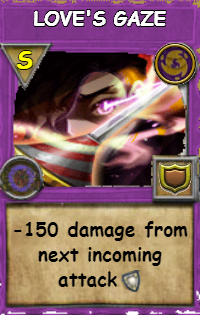
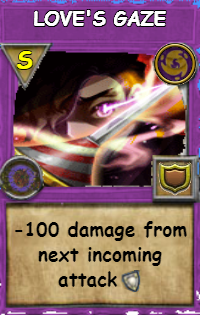
Phase 4: Task 2

diff --git a/src/main/ui/GameGUI.java b/src/main/ui/GameGUI.java
@@ -1,10 +1,9 @@
 package ui;
 
 
-import model.Card;
-import model.CardDeck;
+import model.*;
 import model.Character;
-import model.Effect;
+import model.Event;
 import persistence.JsonReader;
 import persistence.JsonWriter;
 
@@ -196,25 +195,25 @@ public class GameGUI implements ActionListener {
     //          on their name.
     public void setUpBoss() {
         if (boss.getName().equals("HADES, GOD OF THE UNDERWORLD")) {
-            boss.addCard(BossCards.HADES_ATTACK);
-            boss.addCard(BossCards.HADES_SHIELD);
-            boss.addCard(BossCards.HADES_PIERCE);
+            boss.getCardDeck().addCard(BossCards.HADES_ATTACK);
+            boss.getCardDeck().addCard(BossCards.HADES_SHIELD);
+            boss.getCardDeck().addCard(BossCards.HADES_PIERCE);
         } else if (boss.getName().equals("APHRODITE, GODDESS OF LOVE")) {
-            boss.addCard(BossCards.APHRODITE_ATTACK);
-            boss.addCard(BossCards.APHRODITE_SHIELD);
-            boss.addCard(BossCards.APHRODITE_PIERCE);
+            boss.getCardDeck().addCard(BossCards.APHRODITE_ATTACK);
+            boss.getCardDeck().addCard(BossCards.APHRODITE_SHIELD);
+            boss.getCardDeck().addCard(BossCards.APHRODITE_PIERCE);
         } else if (boss.getName().equals("POSEIDON, GOD OF THE SEA")) {
-            boss.addCard(BossCards.POSEIDON_ATTACK);
-            boss.addCard(BossCards.POSEIDON_SHIELD);
-            boss.addCard(BossCards.POSEIDON_PIERCE);
+            boss.getCardDeck().addCard(BossCards.POSEIDON_ATTACK);
+            boss.getCardDeck().addCard(BossCards.POSEIDON_SHIELD);
+            boss.getCardDeck().addCard(BossCards.POSEIDON_PIERCE);
         } else if (boss.getName().equals("ATHENA, GODDESS OF WAR")) {
-            boss.addCard(BossCards.ATHENA_ATTACK);
-            boss.addCard(BossCards.ATHENA_SHIELD);
-            boss.addCard(BossCards.ATHENA_PIERCE);
+            boss.getCardDeck().addCard(BossCards.ATHENA_ATTACK);
+            boss.getCardDeck().addCard(BossCards.ATHENA_SHIELD);
+            boss.getCardDeck().addCard(BossCards.ATHENA_PIERCE);
         } else {
-            boss.addCard(BossCards.ZEUS_ATTACK);
-            boss.addCard(BossCards.ZEUS_SHIELD);
-            boss.addCard(BossCards.ZEUS_PIERCE);
+            boss.getCardDeck().addCard(BossCards.ZEUS_ATTACK);
+            boss.getCardDeck().addCard(BossCards.ZEUS_SHIELD);
+            boss.getCardDeck().addCard(BossCards.ZEUS_PIERCE);
         }
     }
 
@@ -640,7 +639,7 @@ public class GameGUI implements ActionListener {
         List<Card> playerCards = player.getCardDeck().getCards();
         for (int i = 0; i < playerCards.size(); i++) {
             if (playerCards.get(i).getEffect().getEffectType() == c.getEffect().getEffectType()) {
-                player.getCardDeck().removeCard(playerCards.get(i));
+                player.removeCard(playerCards.get(i));
                 i--;
             }
         }
@@ -854,6 +853,13 @@ public class GameGUI implements ActionListener {
         }
     }
 
+    // EFFECTS: prints EventLog after game has been quit.
+    public void printLog(EventLog el) {
+        for (Event e : el) {
+            System.out.println(e.toString());
+        }
+    }
+
     // EFFECTS: provides eventHandling functionality for all clickable buttons in the game.
     @Override
     public void actionPerformed(ActionEvent e) {
@@ -866,6 +872,7 @@ public class GameGUI implements ActionListener {
                     + "\nWelcome back, " + player.getName());
             runGame();
         } else if (e.getActionCommand().equals("Quit Game")) {
+            printLog(EventLog.getInstance());
             frame.dispose();
         } else if (e.getActionCommand().equals("Main Menu")) {
             frame.dispose();

diff --git a/src/main/ui/GameUI.java b/src/main/ui/GameUI.java
@@ -1,9 +1,7 @@
 package ui;
 
-import model.Card;
-import model.CardDeck;
+import model.*;
 import model.Character;
-import model.Effect;
 import persistence.JsonReader;
 import persistence.JsonWriter;
 
@@ -230,25 +228,25 @@ public class GameUI {
     //          on their name.
     public void setUpBoss() {
         if (boss.getName().equals("HADES, GOD OF THE UNDERWORLD")) {
-            boss.addCard(BossCards.HADES_ATTACK);
-            boss.addCard(BossCards.HADES_SHIELD);
-            boss.addCard(BossCards.HADES_PIERCE);
+            boss.getCardDeck().addCard(BossCards.HADES_ATTACK);
+            boss.getCardDeck().addCard(BossCards.HADES_SHIELD);
+            boss.getCardDeck().addCard(BossCards.HADES_PIERCE);
         } else if (boss.getName().equals("APHRODITE, GODDESS OF LOVE")) {
-            boss.addCard(BossCards.APHRODITE_ATTACK);
-            boss.addCard(BossCards.APHRODITE_SHIELD);
-            boss.addCard(BossCards.APHRODITE_PIERCE);
+            boss.getCardDeck().addCard(BossCards.APHRODITE_ATTACK);
+            boss.getCardDeck().addCard(BossCards.APHRODITE_SHIELD);
+            boss.getCardDeck().addCard(BossCards.APHRODITE_PIERCE);
         } else if (boss.getName().equals("POSEIDON, GOD OF THE SEA")) {
-            boss.addCard(BossCards.POSEIDON_ATTACK);
-            boss.addCard(BossCards.POSEIDON_SHIELD);
-            boss.addCard(BossCards.POSEIDON_PIERCE);
+            boss.getCardDeck().addCard(BossCards.POSEIDON_ATTACK);
+            boss.getCardDeck().addCard(BossCards.POSEIDON_SHIELD);
+            boss.getCardDeck().addCard(BossCards.POSEIDON_PIERCE);
         } else if (boss.getName().equals("ATHENA, GODDESS OF WAR")) {
-            boss.addCard(BossCards.ATHENA_ATTACK);
-            boss.addCard(BossCards.ATHENA_SHIELD);
-            boss.addCard(BossCards.ATHENA_PIERCE);
+            boss.getCardDeck().addCard(BossCards.ATHENA_ATTACK);
+            boss.getCardDeck().addCard(BossCards.ATHENA_SHIELD);
+            boss.getCardDeck().addCard(BossCards.ATHENA_PIERCE);
         } else {
-            boss.addCard(BossCards.ZEUS_ATTACK);
-            boss.addCard(BossCards.ZEUS_SHIELD);
-            boss.addCard(BossCards.ZEUS_PIERCE);
+            boss.getCardDeck().addCard(BossCards.ZEUS_ATTACK);
+            boss.getCardDeck().addCard(BossCards.ZEUS_SHIELD);
+            boss.getCardDeck().addCard(BossCards.ZEUS_PIERCE);
         }
     }
 
@@ -312,7 +310,7 @@ public class GameUI {
         List<Card> playerCards = player.getCardDeck().getCards();
         for (int i = 0; i < playerCards.size(); i++) {
             if (playerCards.get(i).getEffect().getEffectType() == c.getEffect().getEffectType()) {
-                player.getCardDeck().removeCard(playerCards.get(i));
+                player.removeCard(playerCards.get(i));
                 i--;
             }
         }
@@ -391,6 +389,7 @@ public class GameUI {
             runGame();
         } else if (again.equals("no")) {
             System.out.println("Thanks for playing!");
+            printLog(EventLog.getInstance());
         } else {
             System.out.println("\nError-- Invalid Input...");
             gameOver();
@@ -466,6 +465,13 @@ public class GameUI {
         }
 
 
+    }
+
+    // EFFECTS: prints EventLog
+    public void printLog(EventLog el) {
+        for (Event e: el) {
+            System.out.println(e.toString());
+        }
     }
 
     // MODIFIES: this

diff --git a/src/main/model/Event.java b/src/main/model/Event.java
@@ -1,0 +1,64 @@
+package model;
+
+import java.util.Calendar;
+import java.util.Date;
+
+/**
+ * Represents an alarm system event.
+ */
+
+public class Event {
+    private static final int HASH_CONSTANT = 13;
+    private Date dateLogged;
+    private String description;
+
+    /**
+     * Creates an event with the given description
+     * and the current date/time stamp.
+     * @param description  a description of the event
+     */
+    public Event(String description) {
+        dateLogged = Calendar.getInstance().getTime();
+        this.description = description;
+    }
+
+    /**
+     * Gets the date of this event (includes time).
+     * @return  the date of the event
+     */
+    public Date getDate() {
+        return dateLogged;
+    }
+
+    /**
+     * Gets the description of this event.
+     * @return  the description of the event
+     */
+    public String getDescription() {
+        return description;
+    }
+
+    @Override
+    public boolean equals(Object other) {
+        if (other == null) {
+            return false;
+        }
+        if (other.getClass() != this.getClass()) {
+            return false;
+        }
+
+        Event otherEvent = (Event) other;
+
+        return (this.dateLogged.equals(otherEvent.dateLogged) && this.description.equals(otherEvent.description));
+    }
+
+    @Override
+    public int hashCode() {
+        return (HASH_CONSTANT * dateLogged.hashCode() + description.hashCode());
+    }
+
+    @Override
+    public String toString() {
+        return dateLogged.toString() + "\n" + description;
+    }
+}

diff --git a/src/main/model/EventLog.java b/src/main/model/EventLog.java
@@ -1,0 +1,60 @@
+package model;
+
+import java.util.ArrayList;
+import java.util.Collection;
+import java.util.Iterator;
+
+/**
+ * Represents a log of alarm system events.
+ * We use the Singleton Design Pattern to ensure that there is only
+ * one EventLog in the system and that the system has global access
+ * to the single instance of the EventLog.
+ */
+
+public class EventLog implements Iterable<Event> {
+    /** the only EventLog in the system (Singleton Design Pattern) */
+    private static EventLog theLog;
+    private Collection<Event> events;
+
+    /**
+     * Prevent external construction.
+     * (Singleton Design Pattern).
+     */
+    private EventLog() {
+        events = new ArrayList<Event>();
+    }
+
+    /**
+     * Gets instance of EventLog - creates it
+     * if it doesn't already exist.
+     * (Singleton Design Pattern)
+     * @return  instance of EventLog
+     */
+    public static EventLog getInstance() {
+        if (theLog == null) {
+            theLog = new EventLog();
+        }
+        return theLog;
+    }
+
+    /**
+     * Adds an event to the event log.
+     * @param e the event to be added
+     */
+    public void logEvent(Event e) {
+        events.add(e);
+    }
+
+    /**
+     * Clears the event log and logs the event.
+     */
+    public void clear() {
+        events.clear();
+        logEvent(new Event("Event log cleared."));
+    }
+
+    @Override
+    public Iterator<Event> iterator() {
+        return events.iterator();
+    }
+}

diff --git a/src/main/model/Character.java b/src/main/model/Character.java
@@ -139,7 +139,18 @@ public class Character implements Writable {
     // EFFECTS: adds card to card deck and returns true.
     //          if card is already in deck, returns false.
     public boolean addCard(Card c) {
+        Event e = new Event(c.getName() + " added to " + name + "'S CardDeck");
+        EventLog.getInstance().logEvent(e);
         return cardDeck.addCard(c);
+    }
+
+    // MODIFIES: this
+    // EFFECTS: removes card from card deck and returns true.
+    //          if card is not in deck, returns false.
+    public boolean removeCard(Card c) {
+        Event e = new Event(c.getName() + " removed from " + name + "'S CardDeck");
+        EventLog.getInstance().logEvent(e);
+        return cardDeck.removeCard(c);
     }
 
     // MODIFIES: this

diff --git a/src/test/model/CharacterTest.java b/src/test/model/CharacterTest.java
@@ -44,6 +44,23 @@ public class CharacterTest {
     }
 
     @Test
+    public void testRemoveCards() {
+        p.addCard(ShieldCard);
+        p.addCard(HealingCard);
+        assertTrue(p.removeCard(ShieldCard));
+
+        assertEquals(1, p.getCardDeck().numCards());
+    }
+
+    @Test
+    public void testRemoveCardsNotInDeck() {
+        p.addCard(HealingCard);
+        assertFalse(p.removeCard(ShieldCard));
+        assertEquals(1, p.getCardDeck().numCards());
+    }
+
+
+    @Test
     public void testTakeDamage() {
         int damage = AttackCard.getEffect().getOffenseComp();
         p.takeDamage(damage);

diff --git a/src/main/ui/BossCards.java b/src/main/ui/BossCards.java
@@ -19,7 +19,7 @@ public class BossCards {
             new Effect(200, 0, 1));
 
     public static final Card APHRODITE_SHIELD = new Card("Love's Gaze",
-            new Effect(0, 150, 2));
+            new Effect(0, 100, 2));
 
     public static final Card APHRODITE_PIERCE = new Card("Heart-throb",
             new Effect(75, 0, 3));

diff --git a/README.md b/README.md
@@ -57,3 +57,7 @@ before my next battle or start from scratch.
 - As a user, I want to be able to see visual icons of the cards that I can choose from after each successful battle.
 - As a game designer, I want to add background images to each battle showing the current Greek God/Goddess that the 
 player is fighting along with the opponent's health and individual cards in the opponent's card deck.
+
+## Phase 4: Task 2
+
+![Sample EventLog](./data/OtherImages/EventLog.png)
